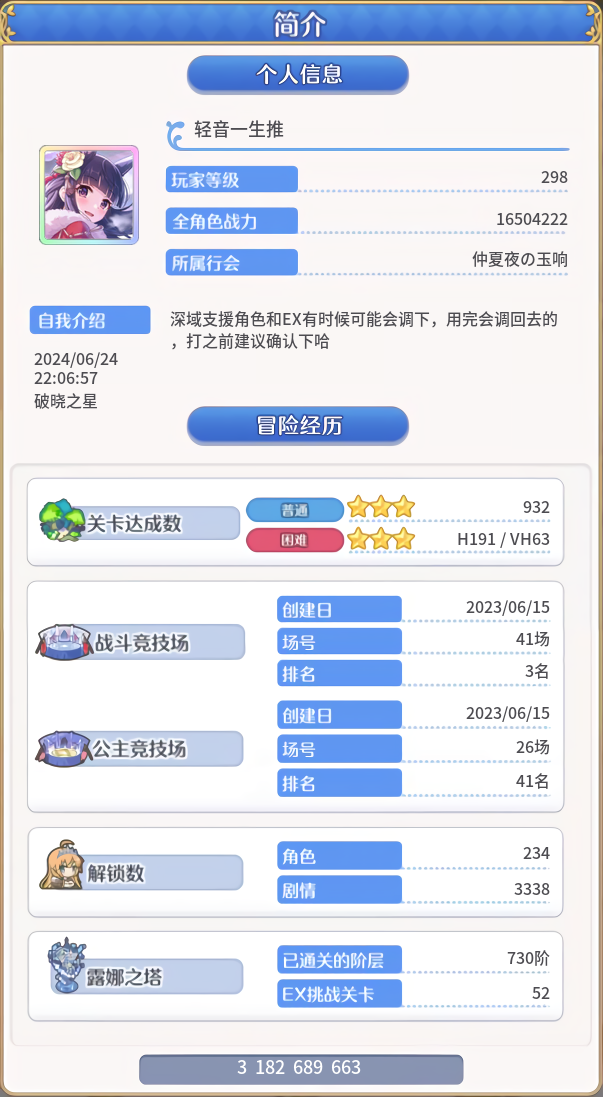
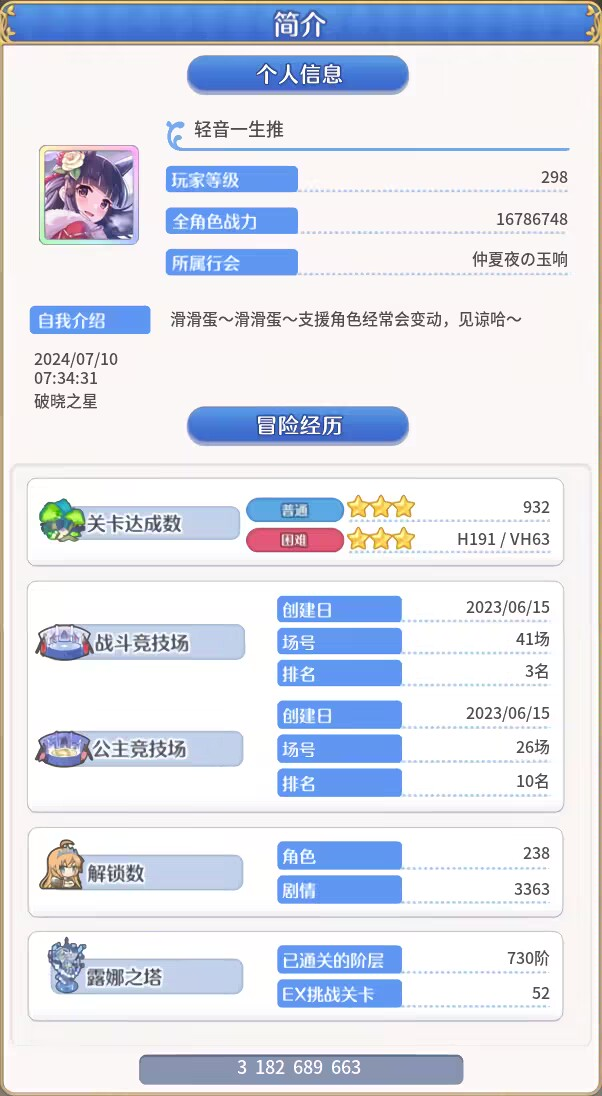
v1.2.1   详细查询深域部分，公主骑士等级采用解包数据进行计算

diff --git a/main.py b/main.py
@@ -1,3 +1,4 @@
+import asyncio
 import json
 import time
 from asyncio import Lock
@@ -6,7 +7,7 @@ from json import load, dump
 from os.path import dirname, join, exists
 
 import requests
-from hoshino import priv, get_bot, get_self_ids
+from hoshino import priv, get_bot, get_self_ids, R
 from hoshino.typing import NoticeSession, MessageSegment
 from hoshino.util import pic2b64
 
@@ -14,6 +15,7 @@ from .create_img import generate_info_pic, generate_support_pic, _get_cx_name, g
 from .jjchistory import *
 from .pcrclient import PcrClient, ApiException, default_headers
 from .playerpref import decrypt_xml
+from .res_parse import download_file
 from .safeservice import SafeService
 
 sv_help = '''
@@ -317,6 +319,24 @@ async def update_ver(bot, ev):
     with open(headers_path, 'r', encoding='UTF-8') as file:
         headers = json.load(file)
     await bot.send(ev, f'pcrjjc_tw_new的游戏版本为{headers.get("APP-VER", "")}')
+
+
+# 自动更新解包数据
+@sv.scheduled_job('cron', id='daily_rank_exp_res', day=f'1/1', hour='1/1', minute='1/1')
+async def update_rank_exp():
+    await download_file(
+        'rank_exp.csv',
+        '/TW/csv/v1_d3f66da6fec99e8ce4b79822bf92720ab7ae27df90fdd7ce50b92b696fcecaa7.csv'
+    )
+    sv.logger.info('"rank_exp.csv" 已经更新到最新版本')
+
+
+# 首次启动
+if not os.path.exists(R.img('pcrjjc_tw_new').path):
+    os.mkdir(R.img('pcrjjc_tw_new').path)
+if not os.path.exists(os.path.join(R.img('pcrjjc_tw_new').path, 'rank_exp.csv')):
+    loop = asyncio.get_event_loop()
+    loop.run_until_complete(update_rank_exp())
 
 
 # ========== ↑ ↑ ↑ 维护组功能 ↑ ↑ ↑ ==========

diff --git a/res_parse.py b/res_parse.py
@@ -1,0 +1,41 @@
+import json
+import os
+
+import pandas as pd
+from hoshino import aiorequests, R
+
+current_dir = R.img('pcrjjc_tw_new').path
+
+# 读取代理配置
+with open(os.path.join(os.path.dirname(__file__), 'account.json')) as fp:
+    p_info = json.load(fp)
+
+
+# 保存解包数据
+async def download_file(file_name: str, file_uri: str):
+    file_path = os.path.join(current_dir, file_name)
+    file_url = 'https://raw.githubusercontent.com/Expugn/priconne-diff/master' + file_uri
+    file_rep = await aiorequests.get(file_url, proxies=p_info['proxy'])
+    response = await file_rep.content
+    # 写入文件
+    with open(file_path, 'wb') as file:
+        file.write(response)
+
+
+# 计算实际RANK
+async def read_knight_exp_rank(file_name: str, target_value: int) -> int:
+    file_path = os.path.join(current_dir, file_name)
+    df = pd.read_csv(file_path)
+    columns = df.columns.tolist()
+
+    rank = columns[0]
+    exp = columns[1]
+
+    target_rank = 1
+
+    for _, row in df.iterrows():
+        if target_value >= int(row[exp]):
+            target_rank = int(row[rank])
+        else:
+            break
+    return target_rank

diff --git a/create_img.py b/create_img.py
@@ -6,6 +6,7 @@ import zhconv
 from PIL import Image, ImageDraw, ImageFont, ImageColor
 from hoshino import util
 
+from .res_parse import read_knight_exp_rank
 from ..priconne import chara
 
 path = Path(__file__).parent  # 获取文件所在目录的绝对路径
@@ -366,6 +367,7 @@ async def generate_talent_pic(data):
     bbox = (701, 849)
     im.paste(im=knight_img, box=bbox, mask=knight_img)
     quest_draw.text(xy=(716, 860), text='公主骑士等级', font=fnt, fill=rgb_w)
-    quest_draw.text(xy=(1080, 858), text='(暂时无法计算)', font=fnt, fill=rgb)  # TODO 暂时无计算公式
+    knight_rank = await read_knight_exp_rank('rank_exp.csv', knight_exp)
+    quest_draw.text(xy=(1080, 858), text=str(knight_rank), font=fnt, fill=rgb)
 
     return im

diff --git a/pcrclient.py b/pcrclient.py
@@ -10,11 +10,6 @@ from Crypto.Util.Padding import unpad, pad
 from hoshino.aiorequests import post
 from msgpack import packb, unpackb
 
-# 读取代理配置
-with open(os.path.join(os.path.dirname(__file__), 'account.json')) as fp:
-    p_info = json.load(fp)
-
-
 # 默认headers
 default_headers = {
     'Accept-Encoding': 'deflate, gzip',

diff --git a/README.md b/README.md
@@ -23,6 +23,8 @@
 
 #### 感谢其他用爱发电的各位大佬的鼎力相助
 
+#### 感谢解包数据源 [priconne-diff](https://github.com/Expugn/priconne-diff)
+
 ## 本仓库的特性
 
 > ✨增加全局禁用推送功能，不需要自动推送的直接关闭即可✨
@@ -33,16 +35,18 @@
 
 ## 更新日志
 
+2024-07-10  v1.2.1   详细查询深域部分，公主骑士等级采用解包数据进行计算，数据源自 [priconne-diff](https://github.com/Expugn/priconne-diff)
+
 2024-06-24  v1.2.0   详细查询新增深域相关的查询图片，可见最下方图片预览，但公主骑士等级由于计算公式暂未解包，因此暂不可用
 
 2024-03-28  v1.1.2   由于谷歌页面经常变化，去除自动更新版本号，改为手动使用命令更新
 
 2023-12-21  v1.1.1   修复自动更新版本号的BUG
 
-2023-08-10  v1.1.0   适配游戏版本v4.0.2后的配置文件
-
 <details>
 <summary>更以前的更新日志</summary>
+
+2023-08-10  v1.1.0   适配游戏版本v4.0.2后的配置文件
 
 2023-06-29  v1.0.0   优化查询逻辑
 
